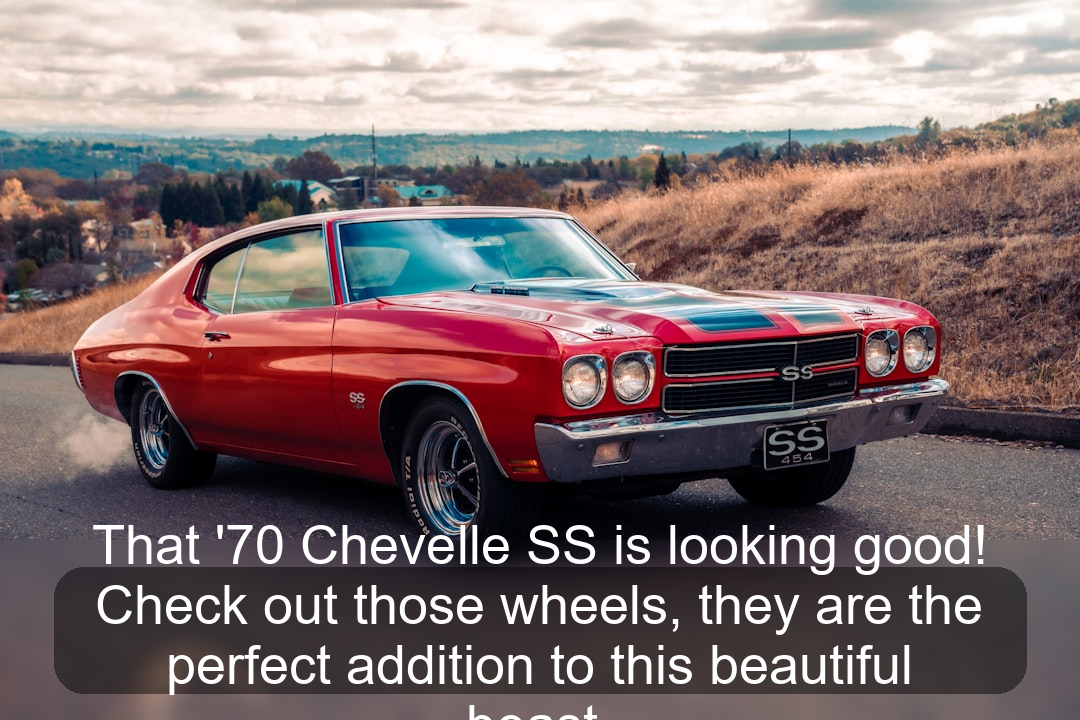
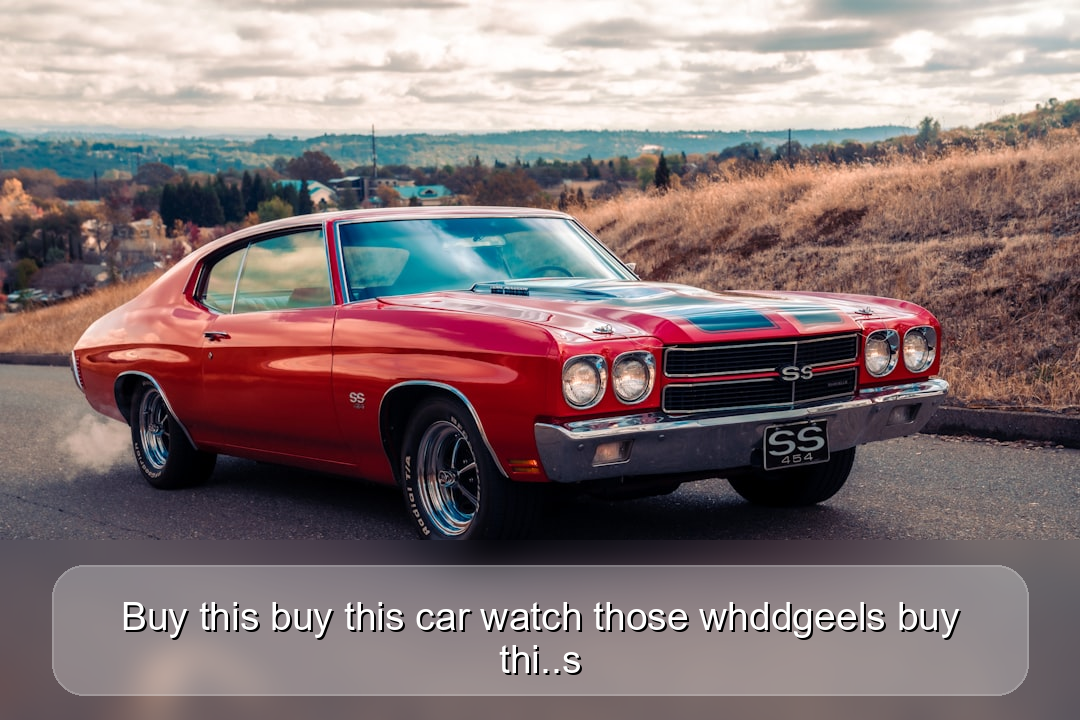
fixed adding text to image size problems

Changed region(s): [[0.0306, 0.7028, 0.9778, 1.0]]

diff --git a/utils.py b/utils.py
@@ -110,92 +110,137 @@ def get_page_token(page_id,session):
     return None
 
 
-
-def add_text_to_image(image_path, text="Money is life.", output_path="output.png"):
-    """
-    Add a glass-like effect and a blurred background to a given image, with
-    a message on top of it. The text is wrapped and its size is adjusted to fit
-    within the glass area. The output image is saved to a file.
-
-    Args:
-        image_path (str): path to the input image
-        text (str, optional): text to display on top of the image. Defaults to "Money is life."
-        output_path (str, optional): path to the output image. Defaults to "output.png"
-
-    Returns:
-        str: path to the output image
-    """
+def add_text_to_image(
+    image_path,
+    text="Money is life.",
+    output_path="output.png",
+    blur_radius=15,
+    glass_color=(255, 255, 255, 70),
+    border_color=(255, 255, 255, 100),
+    border_width=2,
+    text_color=(255, 255, 255, 245),
+    shadow_color=(0, 0, 0, 110)
+):
     start_time = time.time()
-    img = Image.open(image_path).convert("RGBA")
+    try:
+        img = Image.open(image_path).convert("RGBA")
+    except FileNotFoundError:
+        logging.error(f"Error: Input image not found at {image_path}")
+        return None
+
     width, height = img.size
 
-    # Background blur area
-    fade_height = int(height * 0.25)
-    blur_y_start = height - fade_height
+    # 1. Background Blur
+    blur_area_height = int(height * 0.25)
+    blur_y_start = height - blur_area_height
     blur_box = (0, blur_y_start, width, height)
-    blurred_region = img.crop(blur_box).filter(ImageFilter.GaussianBlur(radius=10))
+    blurred_region = img.crop(blur_box).filter(ImageFilter.GaussianBlur(radius=blur_radius))
     img.paste(blurred_region, blur_box)
 
-    # Overlay with glass effect
-    overlay = Image.new("RGBA", img.size, (0, 0, 0, 0))
-    draw = ImageDraw.Draw(overlay)
-
+    # 2. Frosted glass panel coords
     margin_x = int(width * 0.05)
-    margin_y = int(fade_height * 0.15)
-    rect_shape = [margin_x, blur_y_start + margin_y, width - margin_x, height - margin_y]
-    draw.rounded_rectangle(rect_shape, radius=30, fill=(0, 0, 0, 120))
-    img = Image.alpha_composite(img, overlay)
+    margin_y = int(blur_area_height * 0.15)
+    rect_x1 = margin_x
+    rect_y1 = blur_y_start + margin_y
+    rect_x2 = width - margin_x
+    rect_y2 = height - margin_y
 
-    # Draw wrapped text
+    # Frosted Glass Overlay
+    glass_overlay = Image.new("RGBA", img.size, (0, 0, 0, 0))
+    draw = ImageDraw.Draw(glass_overlay)
+    draw.rounded_rectangle(
+        [rect_x1 - border_width, rect_y1 - border_width, rect_x2 + border_width, rect_y2 + border_width],
+        radius=30 + border_width,
+        fill=border_color
+    )
+    draw.rounded_rectangle([rect_x1, rect_y1, rect_x2, rect_y2], radius=30, fill=glass_color)
+    img = Image.alpha_composite(img, glass_overlay)
+
+    # 3. TrueType font loader
+    def get_truetype_font(size):
+        candidates = [
+            "arial.ttf",                                    # Windows
+            "/Library/Fonts/Arial.ttf",                     # macOS
+            "/usr/share/fonts/truetype/dejavu/DejaVuSans.ttf"  # Linux
+        ]
+        for fp in candidates:
+            try:
+                return ImageFont.truetype(fp, size)
+            except Exception:
+                continue
+        raise RuntimeError("No TrueType font found. Install one or update the path.")
+
     draw = ImageDraw.Draw(img)
-    max_width = rect_shape[2] - rect_shape[0] - 20  # padding inside the box
+    padding = int(margin_x * 0.5)
+    max_w = rect_x2 - rect_x1 - padding * 2
+    max_h = rect_y2 - rect_y1 - padding * 2
 
-    font_size = int(fade_height * 0.3)
-    try:
-        font = ImageFont.truetype("arial.ttf", font_size)
-    except:
-        font = ImageFont.load_default()
+    # 4. Binary search for largest fitting font size
+    lo, hi = 10, max(max_w, max_h)
+    best_size = lo
+    while lo <= hi:
+        mid = (lo + hi) // 2
+        font = get_truetype_font(mid)
 
-    # Wrap and shrink if needed
-    wrapper = textwrap.TextWrapper(width=40)
-    while True:
-        lines = wrapper.wrap(text)
-        try:
-            line_widths = [draw.textlength(line, font=font) for line in lines]
-        except:
-            line_widths = [draw.textsize(line, font=font)[0] for line in lines]
-        if max(line_widths) <= max_width or font_size <= 10:
-            break
-        font_size -= 2
-        font = ImageFont.truetype("arial.ttf", font_size)
+        # wrap text
+        words = text.split()
+        lines, line = [], ""
+        for w in words:
+            test = (line + " " + w).strip()
+            if draw.textlength(test, font=font) <= max_w:
+                line = test
+            else:
+                lines.append(line)
+                line = w
+        lines.append(line)
 
-    # Calculate total text height
-    total_text_height = 0
-    line_heights = []
-    for line in lines:
-        try:
-            bbox = draw.textbbox((0, 0), line, font=font)
-            line_height = bbox[3] - bbox[1]
-        except:
-            line_height = draw.textsize(line, font=font)[1]
-        line_heights.append(line_height)
-        total_text_height += line_height + 10  # 10 px spacing
+        # calc total height via textbbox
+        line_heights = [
+            draw.textbbox((0, 0), l, font=font)[3] - draw.textbbox((0, 0), l, font=font)[1]
+            for l in lines
+        ]
+        total_h = sum(line_heights) + (len(lines) - 1) * (mid // 5)
 
-    start_y = blur_y_start + (fade_height - total_text_height) // 2
+        if total_h <= max_h:
+            best_size, lo = mid, mid + 1
+        else:
+            hi = mid - 1
 
-    for i, line in enumerate(lines):
-        try:
-            line_width = draw.textlength(line, font=font)
-        except:
-            line_width = draw.textsize(line, font=font)[0]
-        x = (width - line_width) // 2
-        draw.text((x, start_y), line, font=font, fill=(255, 255, 255, 255))
-        start_y += line_heights[i] + 10
+    # 5. Render final text
+    font = get_truetype_font(best_size)
+    words = text.split()
+    final_lines, line = [], ""
+    for w in words:
+        test = (line + " " + w).strip()
+        if draw.textlength(test, font=font) <= max_w:
+            line = test
+        else:
+            final_lines.append(line)
+            line = w
+    final_lines.append(line)
+
+    line_heights = [
+        draw.textbbox((0, 0), l, font=font)[3] - draw.textbbox((0, 0), l, font=font)[1]
+        for l in final_lines
+    ]
+    total_h = sum(line_heights) + (len(final_lines) - 1) * (best_size // 5)
+    y = rect_y1 + (rect_y2 - rect_y1 - total_h) / 2
+
+    for l, h in zip(final_lines, line_heights):
+        w_text = draw.textlength(l, font=font)
+        x = rect_x1 + (rect_x2 - rect_x1 - w_text) / 2
+        # shadow
+        draw.text((x + 2, y + 2), l, font=font, fill=shadow_color)
+        # main text
+        draw.text((x, y), l, font=font, fill=text_color)
+        y += h + best_size // 5
 
     img.convert("RGB").save(output_path)
-    logging.info(f"Image saved to {output_path} in {time.time() - start_time:.2f} seconds")
+    logging.info(f"Image saved to {output_path} in {time.time() - start_time:.2f}s")
     return output_path
 
+
+add_text_to_image("image.png","Buy this buy this car watch those whddgeels buy thi..s")
 
 def upload_image(image_path):
     """Uploads an image to catbox.me and returns the image's display URL
